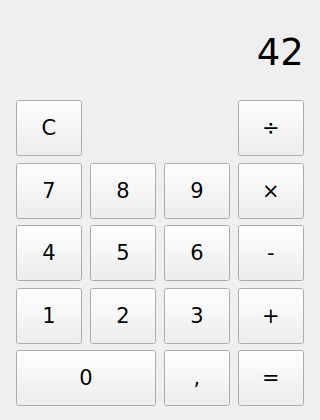
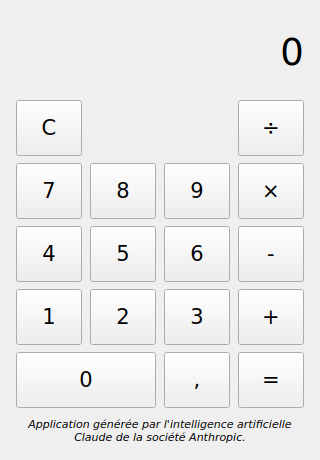
Ajout de la mention 'Application générée par l'IA Claude' en bas de fenêtre
- Label en italique, centré, sous la grille de boutons
- Fenêtre agrandie légèrement (420 -> 460px de hauteur) pour l'accueillir
- Test ajouté vérifiant la présence et le style du label

diff --git a/src/calculatrice/fenetre.py b/src/calculatrice/fenetre.py
@@ -24,7 +24,7 @@ from PySide6.QtWidgets import (
 from calculatrice.moteur import MachineCalculatrice, Operation
 
 LARGEUR_FENETRE = 320
-HAUTEUR_FENETRE = 420
+HAUTEUR_FENETRE = 460
 
 
 class FenetreCalculatrice(QWidget):
@@ -44,6 +44,7 @@ class FenetreCalculatrice(QWidget):
         agencement.setSpacing(12)
         agencement.addWidget(self._label_affichage)
         agencement.addLayout(self._creer_grille_boutons())
+        agencement.addWidget(self._creer_label_mention())
 
         self._rafraichir_affichage()
 
@@ -56,6 +57,17 @@ class FenetreCalculatrice(QWidget):
         label.setFont(police)
         label.setObjectName("affichage")
         label.setSizePolicy(QSizePolicy.Policy.Expanding, QSizePolicy.Policy.Fixed)
+        return label
+
+    def _creer_label_mention(self) -> QLabel:
+        label = QLabel("Application générée par l'intelligence artificielle Claude de la société Anthropic.")
+        label.setAlignment(Qt.AlignmentFlag.AlignCenter)
+        label.setWordWrap(True)
+        police = QFont()
+        police.setPointSize(8)
+        police.setItalic(True)
+        label.setFont(police)
+        label.setObjectName("mentionGeneration")
         return label
 
     def _creer_grille_boutons(self) -> QGridLayout:

diff --git a/tests/test_fenetre.py b/tests/test_fenetre.py
@@ -58,3 +58,16 @@ def test_fenetre_a_le_bon_titre(qtbot):
     fenetre = FenetreCalculatrice()
     qtbot.addWidget(fenetre)
     assert fenetre.windowTitle() == "Calculatrice"
+
+
+def test_mention_generation_presente_et_en_italique(qtbot):
+    fenetre = FenetreCalculatrice()
+    qtbot.addWidget(fenetre)
+
+    from PySide6.QtWidgets import QLabel
+
+    labels = [l for l in fenetre.findChildren(QLabel) if l.objectName() == "mentionGeneration"]
+    assert len(labels) == 1
+    label = labels[0]
+    assert label.text() == "Application générée par l'intelligence artificielle Claude de la société Anthropic."
+    assert label.font().italic()
